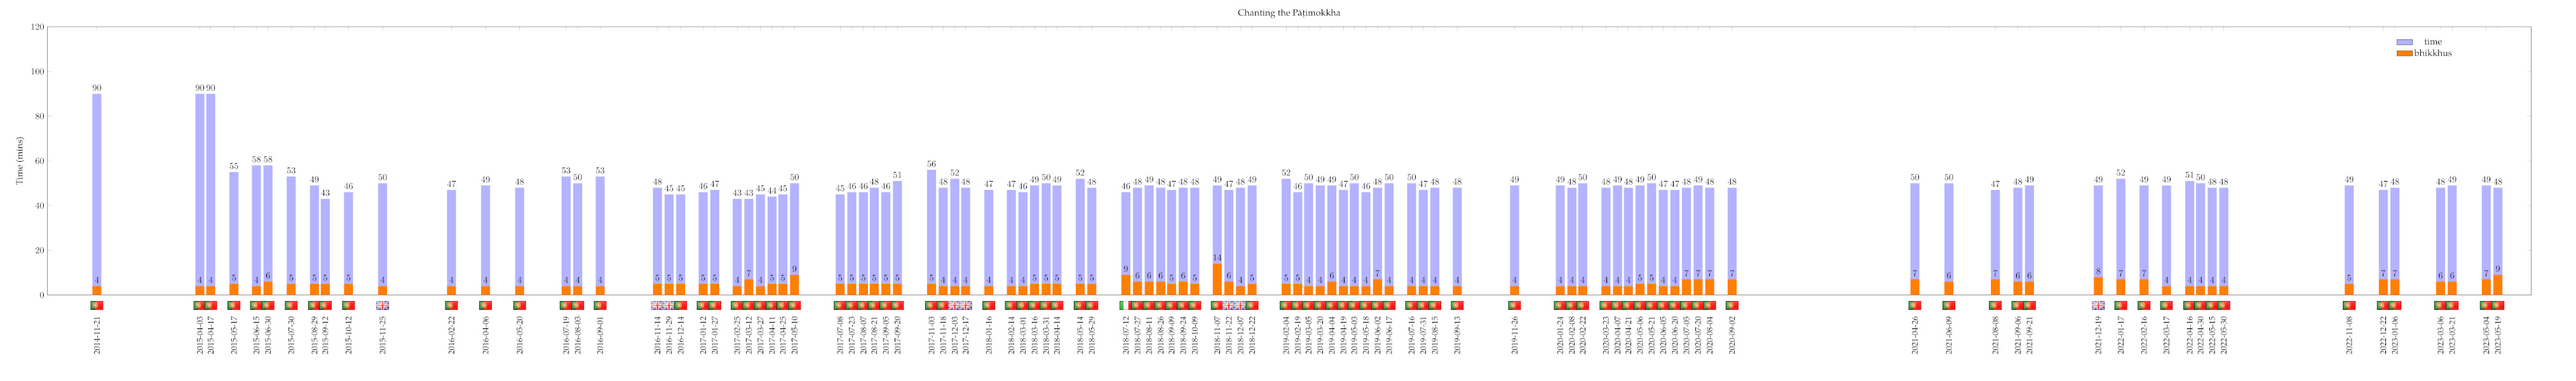
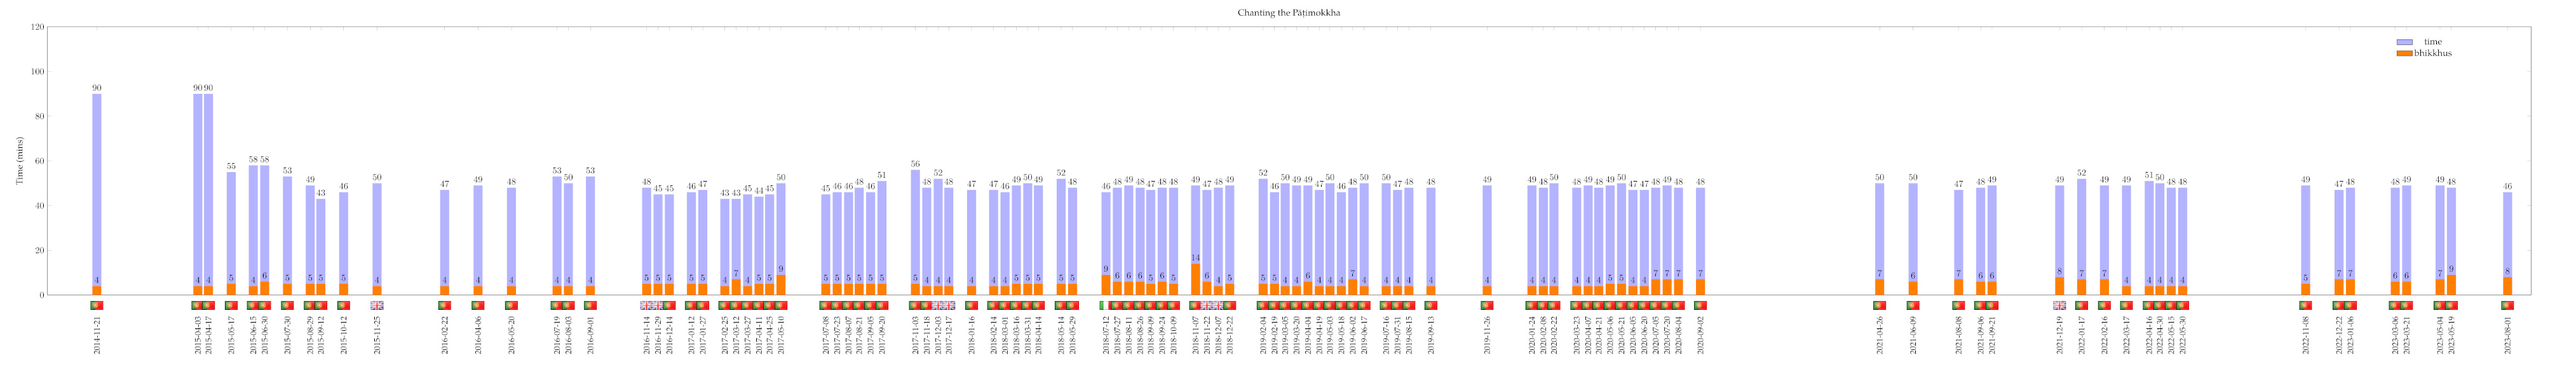
upd

Changed region(s): [[0.0622, 0.27, 0.6838, 0.93], [0.7148, 0.45, 0.9946, 0.93]]

diff --git a/src/patimokkha-chanting-chart.tex b/src/patimokkha-chanting-chart.tex
@@ -58,7 +58,7 @@
     ylabel=Time (mins),
     xtick=data,
     xmin=2014-11-20,
-    xmax=2023-07-01,
+    xmax=2023-09-01,
     enlarge x limits={rel=0.02,lower},
     xticklabel style={yshift=-20pt,rotate=90,anchor=east,font=\small},
     xticklabel={\year-\month-\day},
@@ -193,6 +193,7 @@
   \node [anchor=south, yshift=-20pt] at (axis cs:2023-03-21,0) {\includegraphics[width=5mm]{pt}};
   \node [anchor=south, yshift=-20pt] at (axis cs:2023-05-04,0) {\includegraphics[width=5mm]{pt}};
   \node [anchor=south, yshift=-20pt] at (axis cs:2023-05-19,0) {\includegraphics[width=5mm]{pt}};
+  \node [anchor=south, yshift=-20pt] at (axis cs:2023-08-01,0) {\includegraphics[width=5mm]{pt}};
 
 \end{axis}
 \end{tikzpicture}
